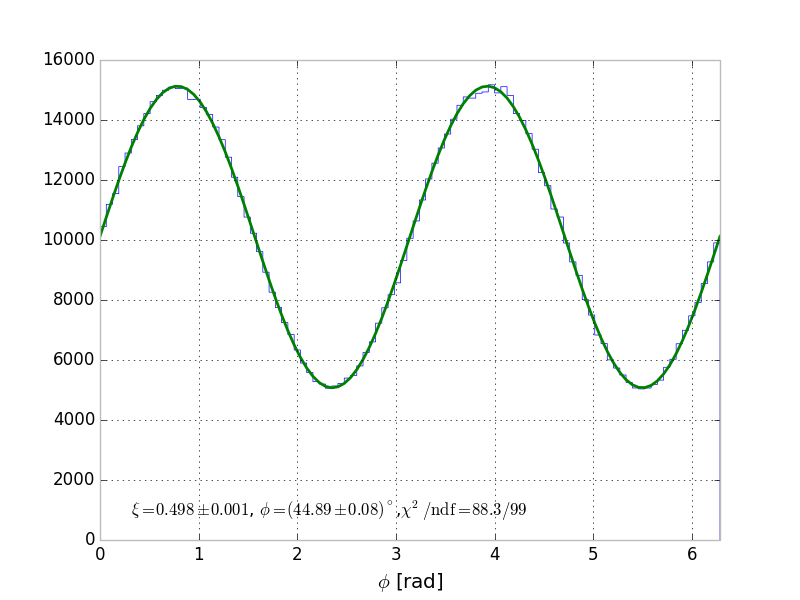
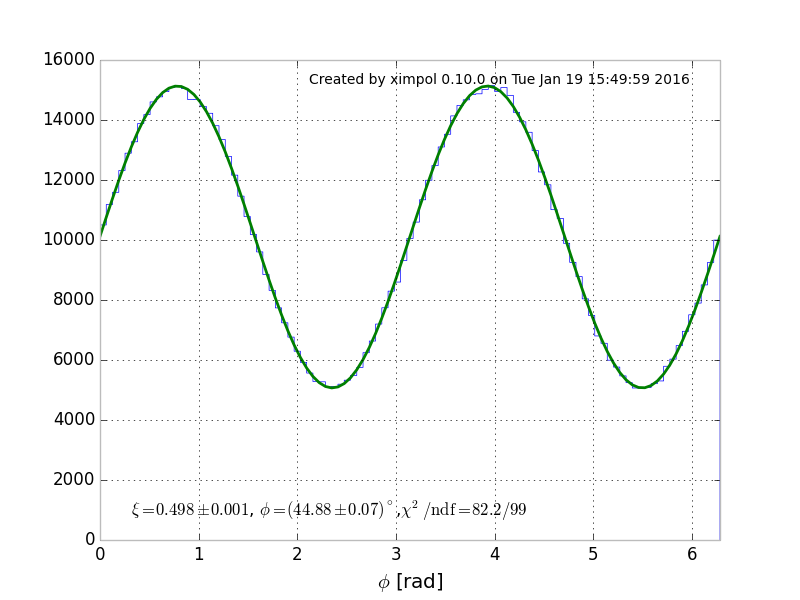
More doc.

Changed region(s): [[0.375, 0.12, 0.875, 0.18], [0.5938, 0.84, 0.625, 0.87], [0.4062, 0.63, 0.4375, 0.66]]

diff --git a/ximpol/irf/mrf.py b/ximpol/irf/mrf.py
@@ -67,13 +67,24 @@ class xAzimuthalResponseGenerator(xUnivariateAuxGenerator):
         {N_\\text{max} + N_\\text{min}} = \\frac{B}{2A + B}
 
     (the visibility can also be characterized as the fraction of modulated
-    events in a given distribution, as can be readily demonstrated.) The
-    angular response now becomes
+    events in a given distribution, as can be readily demonstrated, and it is
+    the quantity that the detector is effectively measuring).
+    The angular response now becomes
 
     .. math::
         N(\\phi) = \\frac{N_0}{\\pi} \\left[
         \\frac{(1 - \\xi)}{2} + \\xi \\cos^2(\\phi - \\phi_0)
         \\right].
+
+    For completeness, the visibility, the modulation factor and the polarization
+    degree for a monocromatic source are related to each other through:
+
+    .. math::
+        \\xi(E, t) = P(E, t) \\times \\mu(E)
+
+    (i.e., at any given energy the modulation factor is the visibility of the
+    modulation of the detector response for 100% linearly polarized incident
+    radiation).
 
     In terms of throwing random numbers, the phase is a trivial constant that
     can be added after the fact (modulo 2pi), so effectively the
@@ -83,16 +94,49 @@ class xAzimuthalResponseGenerator(xUnivariateAuxGenerator):
         \\text{pdf}(\\phi) = \\frac{1}{\\pi} \\left[
         \\frac{(1 - \\xi)}{2} + \\xi \\cos^2(\\phi) \\right],
 
-    (with the visibility being our auxiliary variable) and the corresponding
-    cumulative distribution function is
+    .. image:: ../figures/test_azimuthal_resp_pdf.png
+
+    The corresponding cumulative distribution function is
 
     .. math::
         \\text{cdf}(\\phi) = \\frac{1}{2\\pi} \\left(
-        \\phi + \\frac{\\xi}{2}\\sin{(2\\phi)} \\right).
+        \\phi + \\frac{\\xi}{2}\\sin{(2\\phi)} \\right),
 
-    It is unfortunate that the cdf cannot be inverted, otherwise we would
+    and it is unfortunate that it cannot be inverted, otherwise we would
     have no need to interpolate for generating random numbers according to
     this distribution.
+
+    .. image:: ../figures/test_azimuthal_resp_cdf.png
+
+    From the prospecive of the code, this generator is a standard
+    `xUnivariateAuxGenerator` where the azimuthal angle is our
+    random variable and the visbility is our auxiliary variable. For any given
+    value of the visibility, a vertical slice is providing the corresponding
+    one-dimensional pdf.
+
+    .. image:: ../figures/test_azimuthal_resp_generator.png
+
+    The class also provide facilities to fit a histogram to recover the
+    underlying modulation visibility and phase.
+
+    Example
+    -------
+    >>> import numpy
+    >>> from ximpol.utils.matplotlib_ import pyplot as plt
+    >>> from ximpol.irf.mrf import xAzimuthalResponseGenerator
+    >>>
+    >>> generator = xAzimuthalResponseGenerator()
+    >>> visibility = numpy.zeros(1000000)
+    >>> visibility.fill(0.5)
+    >>> phase = numpy.radians(45.)
+    >>> phi = generator.rvs_phi(visibility, phase)
+    >>> hist = plt.hist(phi, bins=numpy.linspace(0, 2*numpy.pi, 100),
+                        histtype='step', label='Random angles')
+    >>> fit_results = generator.fit_histogram(hist)
+    >>> fit_results.plot()
+    >>> plt.show()
+
+    .. image:: ../figures/test_azimuthal_resp_rvs.png
     """
 
     def __init__(self):

diff --git a/ximpol/test/test_azimuthal_response.py b/ximpol/test/test_azimuthal_response.py
@@ -52,6 +52,9 @@ class TestAzimuthalResponse(unittest.TestCase):
         """Test the one-dimensional azimuthal response underlying pdf.
         """
         self.generator.plot(show=self.interactive)
+        overlay_tag(color='white')
+        save_current_figure('test_azimuthal_resp_generator.png',
+                            show=self.interactive)
         phi = numpy.linspace(0., 2*numpy.pi, 100)
         for visibility in numpy.linspace(1, 0, 5):
             pdf = self.generator.pdf(phi, visibility)
@@ -63,7 +66,8 @@ class TestAzimuthalResponse(unittest.TestCase):
         plt.axis([0., 2*numpy.pi, None, None])
         plt.xlabel('$\\phi$ [rad]')
         plt.ylabel('pdf($\\phi$) [1/rad]')
-        plt.legend(bbox_to_anchor=(0.88, 0.99))
+        plt.legend(bbox_to_anchor=(0.88, 0.92))
+        overlay_tag()
         save_current_figure('test_azimuthal_resp_pdf.png',
                             show=self.interactive)
 
@@ -81,7 +85,8 @@ class TestAzimuthalResponse(unittest.TestCase):
         plt.axis([0., 2*numpy.pi, None, None])
         plt.xlabel('$\\phi$ [rad]')
         plt.ylabel('cdf($\\phi$)')
-        plt.legend(bbox_to_anchor=(0.4, 0.99))
+        plt.legend(bbox_to_anchor=(0.4, 0.92))
+        overlay_tag()
         save_current_figure('test_azimuthal_resp_cdf.png',
                             show=self.interactive)
 
@@ -97,6 +102,7 @@ class TestAzimuthalResponse(unittest.TestCase):
         fit_results.plot()
         plt.xlabel('$\\phi$ [rad]')
         plt.axis([0, 2*numpy.pi, 0, None])
+        overlay_tag()
         save_current_figure('test_azimuthal_resp_rvs.png',
                             show=self.interactive)
 
